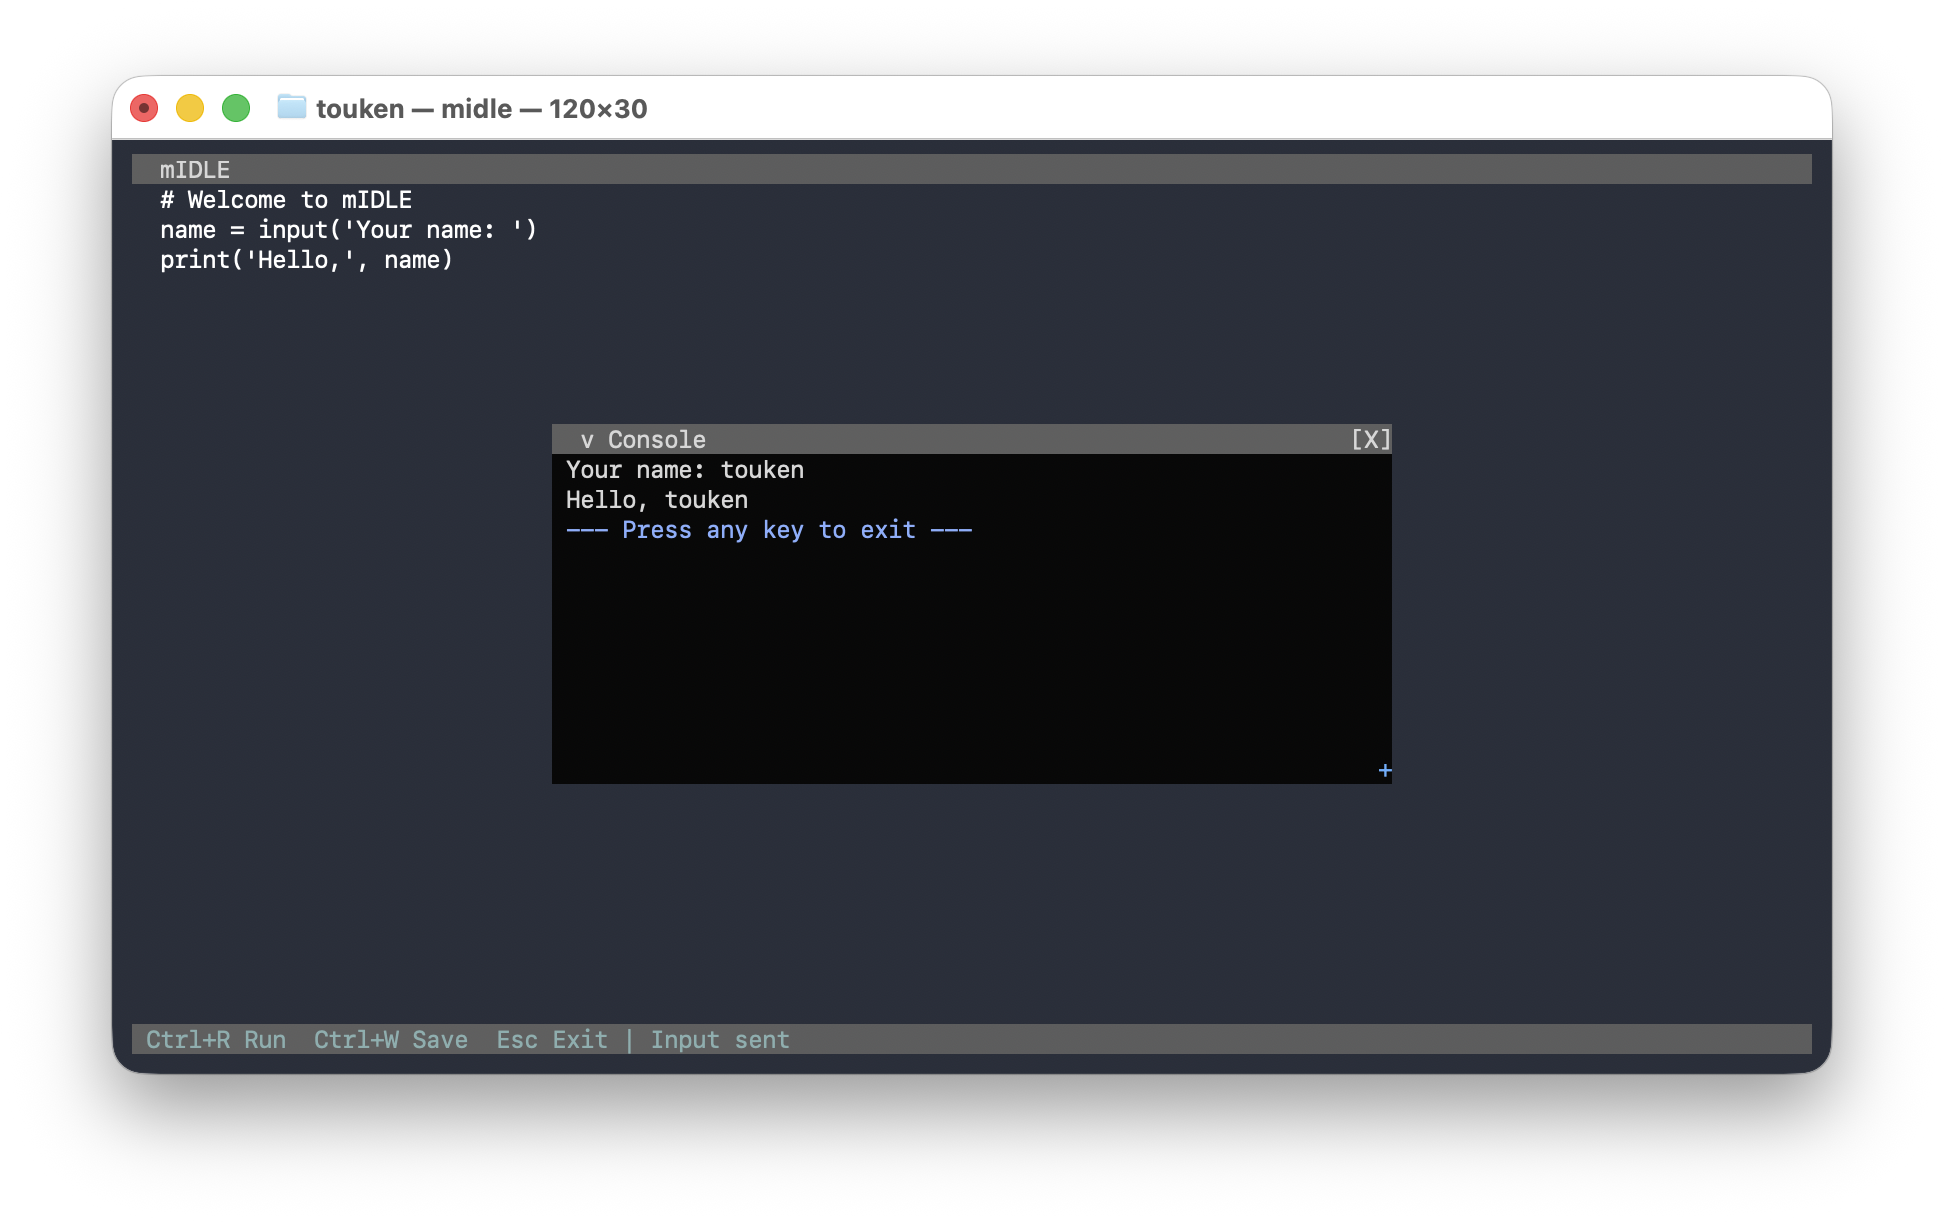
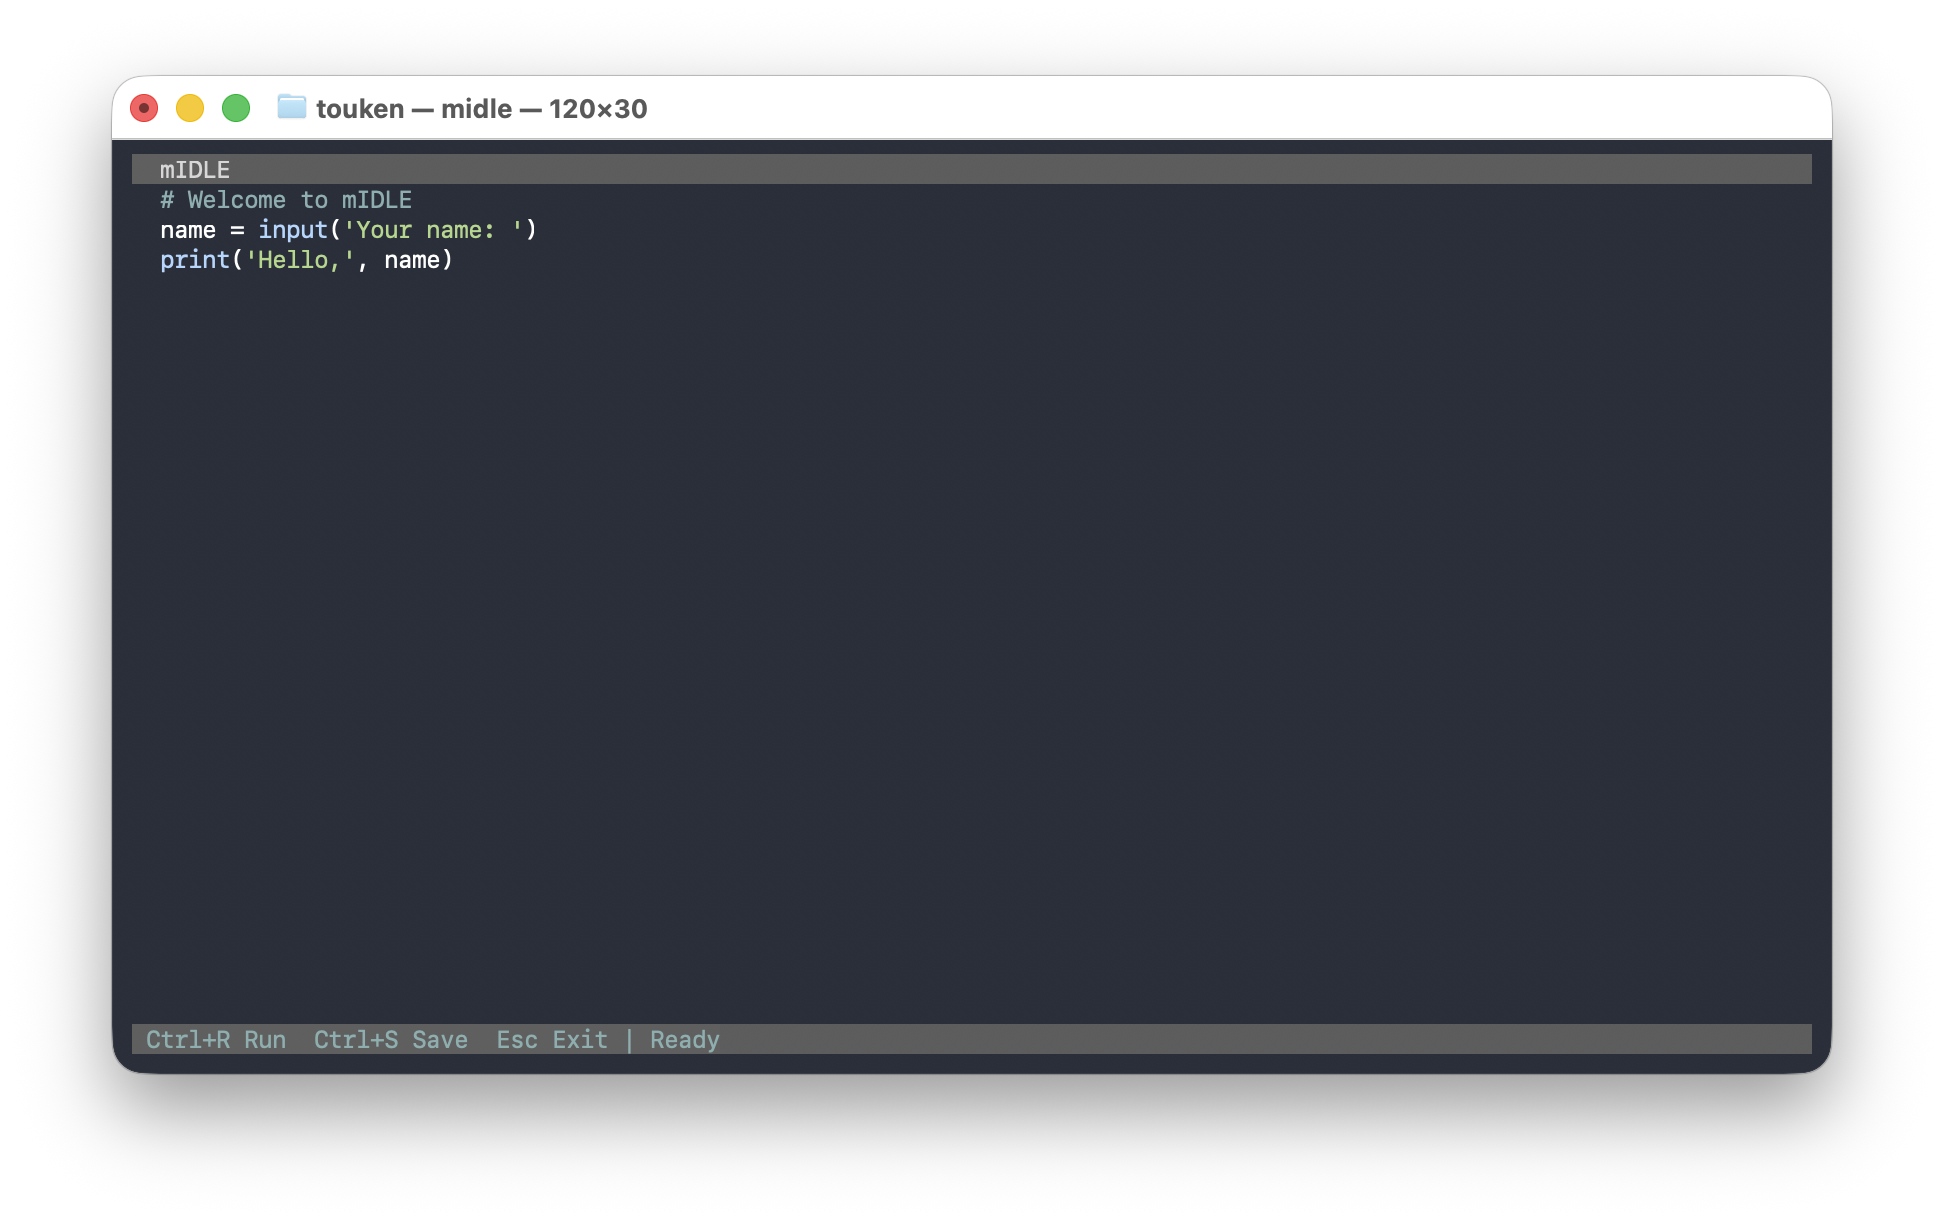
docs: update README features and screenshot for syntax highlighting
Document editor highlighting in Features and refresh the demo screenshot.

Changed region(s): [[0.2778, 0.3421, 0.7407, 0.653], [0.0926, 0.1555, 0.2469, 0.2177], [0.3395, 0.8396, 0.4012, 0.8707]]

diff --git a/README.md b/README.md
@@ -19,11 +19,12 @@ Write and run Python code directly in your terminal. Built on MicroPython — no
 
 ## Features
 
-- **Full-screen editor** — write Python scripts in a native TUI text editor
+- **Full-screen editor** — write Python scripts in a native TUI text editor with cursor, mouse, and scroll
+- **Python syntax highlighting** — keywords, strings, comments, numbers, builtins, and decorators colored in the editor
 - **Built-in REPL** — run code and see output in a floating console popup
 - **`input()` support** — stdin field appears automatically when Python calls `input()`
 - **Keyboard interrupt** — stop runaway code with `Ctrl+R`
-- **Dark theme** — terminal-friendly, blends with default background
+- **Dark theme** — solid, readable colors tuned for the terminal
 
 ## Quick start
 
